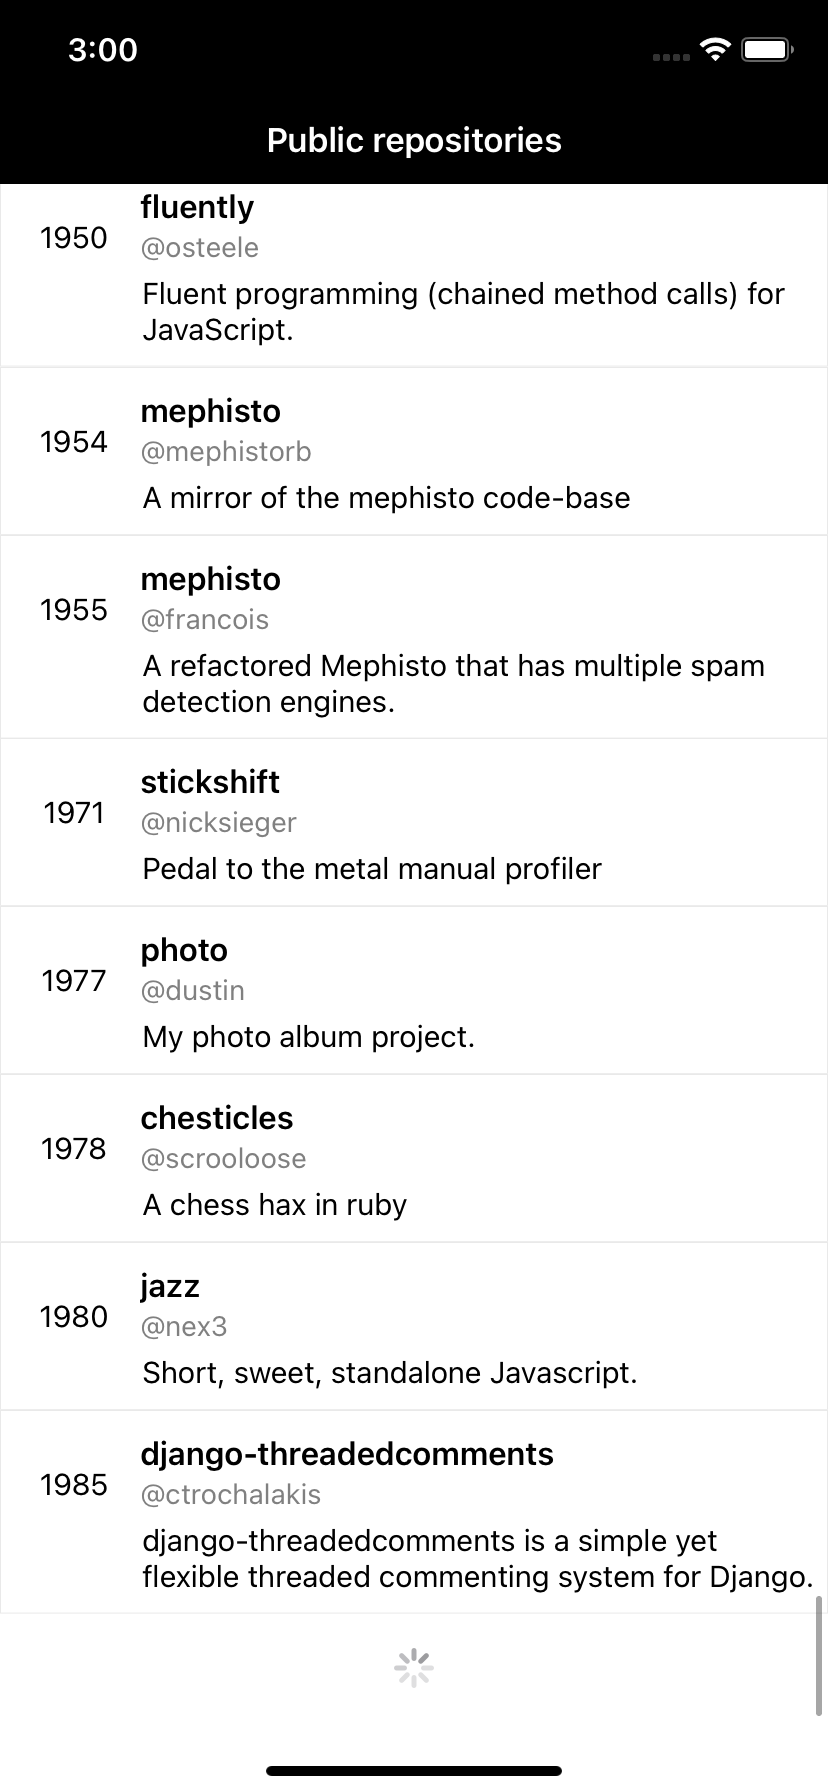
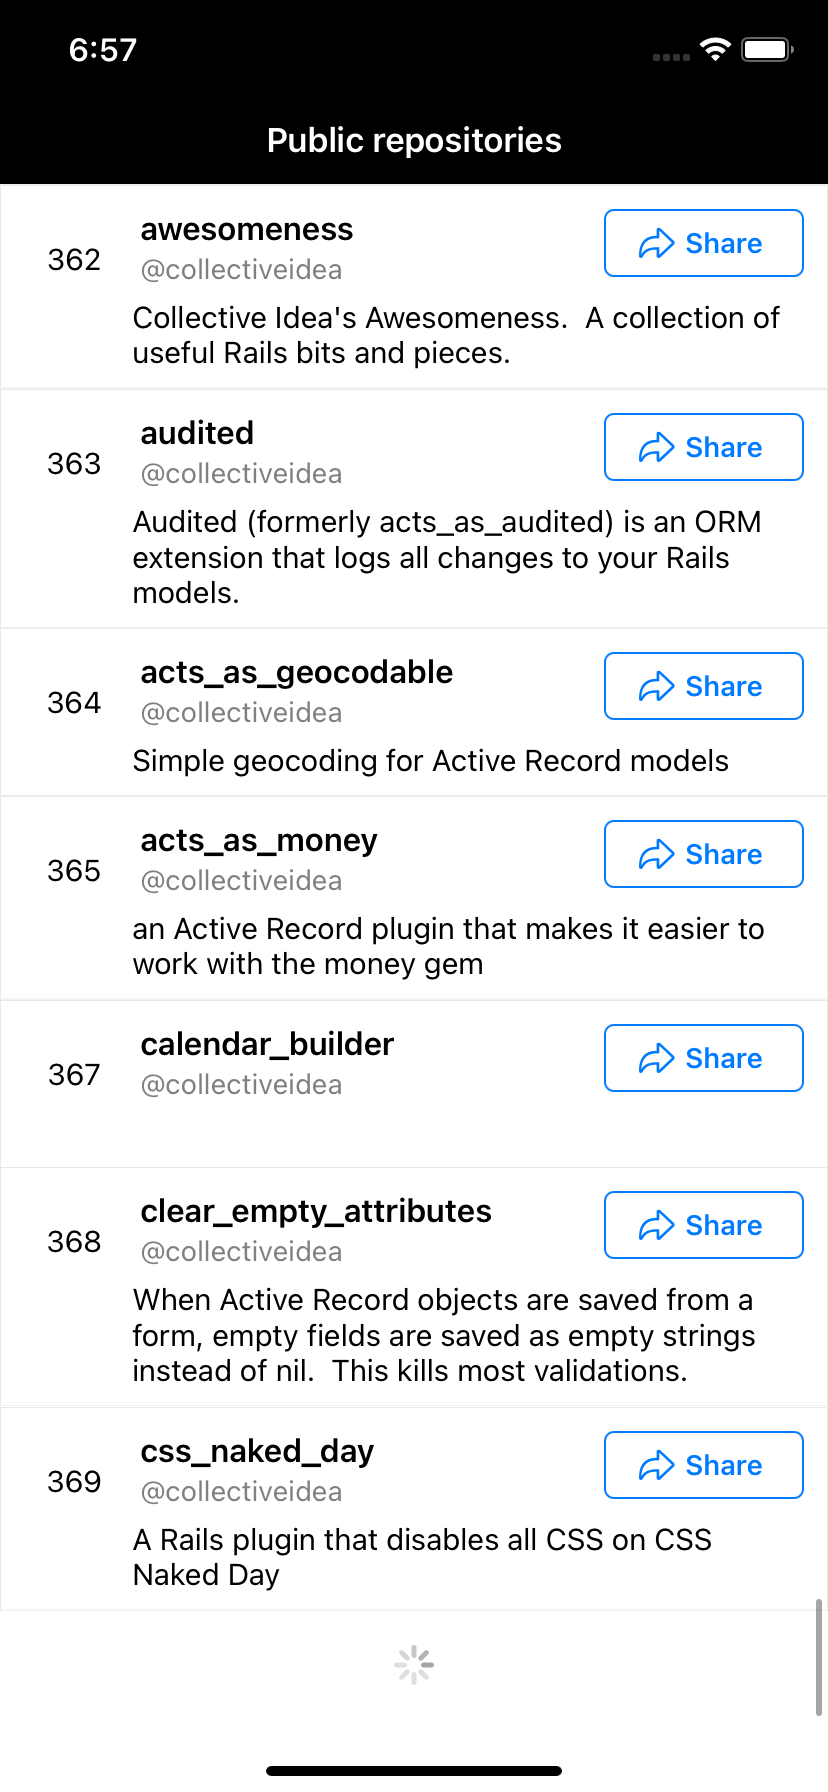
add share button

diff --git a/PublicGithubRepos/Repos/View/ReposCollectionViewCell.swift b/PublicGithubRepos/Repos/View/ReposCollectionViewCell.swift
@@ -34,14 +34,29 @@ class ReposCollectionViewCell: UICollectionViewCell {
         return label
     }()
     
-    private let descriptionTextView: UITextView = {
-        let textView = UITextView()
-        textView.font = UIFont.systemFont(ofSize: 15)
-        textView.isEditable = false
-        textView.isScrollEnabled = false
-        textView.backgroundColor = .clear
-        textView.translatesAutoresizingMaskIntoConstraints = false
-        return textView
+    private let descriptionLabel: UILabel = {
+        let label = UILabel()
+        label.font = UIFont.systemFont(ofSize: 15)
+        label.numberOfLines = 0
+        label.translatesAutoresizingMaskIntoConstraints = false
+        return label
+    }()
+    
+    let shareButton: UIButton = {
+        let button = UIButton()
+        button.layer.cornerRadius = 5
+        button.layer.borderColor = UIColor.link.cgColor
+        button.layer.borderWidth = 1
+        button.setTitle("Share", for: .normal)
+        button.titleLabel?.font = UIFont.boldSystemFont(ofSize: 14)
+        button.setTitleColor(.link, for: .normal)
+        button.setImage(UIImage(systemName: "arrowshape.turn.up.right"), for: .normal)
+        button.imageView?.tintColor = .link
+        // Возможность масштабирования содержимого по размеру представления с сохранением соотношения сторон.
+        button.imageView?.contentMode = .scaleAspectFit
+        button.imageEdgeInsets = UIEdgeInsets(top: 0, left: -8, bottom: 0, right: 0)
+        button.translatesAutoresizingMaskIntoConstraints = false
+        return button
     }()
     
     override init(frame: CGRect) {
@@ -49,7 +64,7 @@ class ReposCollectionViewCell: UICollectionViewCell {
         addSubviews()
         
         layer.borderWidth = 0.5
-        layer.borderColor = #colorLiteral(red: 0.9124323726, green: 0.9125853777, blue: 0.9124122262, alpha: 1)
+        layer.borderColor = Colors.separatorColor.cgColor
     }
     
     required init?(coder: NSCoder) {
@@ -70,7 +85,7 @@ class ReposCollectionViewCell: UICollectionViewCell {
         NSLayoutConstraint.activate([
             nameLabel.topAnchor.constraint(equalTo: idLabel.topAnchor),
             nameLabel.leadingAnchor.constraint(equalTo: idLabel.trailingAnchor, constant: 8),
-            nameLabel.trailingAnchor.constraint(equalTo: trailingAnchor, constant: 12),
+            nameLabel.trailingAnchor.constraint(equalTo: shareButton.leadingAnchor, constant: 0),
             nameLabel.heightAnchor.constraint(equalToConstant: 20)
         ])
         
@@ -82,10 +97,17 @@ class ReposCollectionViewCell: UICollectionViewCell {
         ])
         
         NSLayoutConstraint.activate([
-            descriptionTextView.topAnchor.constraint(equalTo: ownerLoginLabel.bottomAnchor, constant: -4),
-            descriptionTextView.leadingAnchor.constraint(equalTo: ownerLoginLabel.leadingAnchor, constant: -4),
-            descriptionTextView.trailingAnchor.constraint(equalTo: trailingAnchor),
-            descriptionTextView.bottomAnchor.constraint(equalTo: bottomAnchor)
+            descriptionLabel.topAnchor.constraint(equalTo: ownerLoginLabel.bottomAnchor, constant: -4),
+            descriptionLabel.leadingAnchor.constraint(equalTo: ownerLoginLabel.leadingAnchor, constant: -4),
+            descriptionLabel.trailingAnchor.constraint(equalTo: trailingAnchor),
+            descriptionLabel.bottomAnchor.constraint(equalTo: bottomAnchor)
+        ])
+        
+        NSLayoutConstraint.activate([
+            shareButton.topAnchor.constraint(equalTo: topAnchor, constant: 12),
+            shareButton.trailingAnchor.constraint(equalTo: trailingAnchor, constant: -12),
+            shareButton.widthAnchor.constraint(equalToConstant: 100),
+            shareButton.heightAnchor.constraint(equalToConstant: 34)
         ])
     }
 
@@ -93,24 +115,32 @@ class ReposCollectionViewCell: UICollectionViewCell {
     // при этом инициализатор заново не вызывается
     override func prepareForReuse() {
         super.prepareForReuse()
-        // при переиспользовании ячейки каждый раз начинаем с nil
+        // сбрасываем все данные ячейки
         idLabel.text = nil
         nameLabel.text = nil
         ownerLoginLabel.text = nil
-        descriptionTextView.text = nil
+        descriptionLabel.text = nil
     }
     
     private func addSubviews() {
         addSubview(idLabel)
         addSubview(nameLabel)
         addSubview(ownerLoginLabel)
-        addSubview(descriptionTextView)
+        addSubview(descriptionLabel)
+        addSubview(shareButton)
     }
     
     func configure(viewModel: RepoViewModel) {
         idLabel.text = "\(viewModel.id)"
         nameLabel.text = "\(viewModel.name)"
         ownerLoginLabel.text = "@\(viewModel.ownerLogin)"
-        descriptionTextView.text = "\(viewModel.description)"
+        descriptionLabel.text = "\(viewModel.description)"
+    }
+}
+
+extension ReposCollectionViewCell {
+    //------------------ Constants -------------
+    private struct Colors {
+        static let separatorColor = #colorLiteral(red: 0.9124323726, green: 0.9125853777, blue: 0.9124122262, alpha: 1)
     }
 }

diff --git a/PublicGithubRepos/Repos/View/ReposViewController.swift b/PublicGithubRepos/Repos/View/ReposViewController.swift
@@ -75,11 +75,11 @@ class ReposViewController: UIViewController, ReposViewControllerInput, UIGesture
         collectionView.alwaysBounceVertical = true
         collectionView.addSubview(refreshControl)
         // long press on collectionView for sharing
-        let lpgr = UILongPressGestureRecognizer(target: self, action: #selector(handleLongPress))
-        lpgr.minimumPressDuration = 0.5
-        lpgr.delegate = self
-        lpgr.delaysTouchesBegan = true
-        self.collectionView.addGestureRecognizer(lpgr)
+//        let lpgr = UILongPressGestureRecognizer(target: self, action: #selector(handleLongPress))
+//        lpgr.minimumPressDuration = 0.5
+//        lpgr.delegate = self
+//        lpgr.delaysTouchesBegan = true
+//        self.collectionView.addGestureRecognizer(lpgr)
     }
     
     override func loadView() {
@@ -98,29 +98,26 @@ class ReposViewController: UIViewController, ReposViewControllerInput, UIGesture
         presenter.prepareDataByRefresh(id: lastId)
     }
     
-    @objc func handleLongPress(gesture: UILongPressGestureRecognizer) {
-        if gesture.state != .began {
-            return
-        }
-
+    @objc func presentShareSheet(gesture: UITapGestureRecognizer) {
         let point = gesture.location(in: self.collectionView)
         // находим indexPath нажатой ячейки
-        if let indexPath = collectionView.indexPathForItem(at: point) {
-            // получаем ячейку
-            let cell = collectionView.cellForItem(at: indexPath)
-            guard let vm = viewModel[safe: indexPath.row] else { return }
-            let urlString = "https://github.com/\(vm.ownerLogin)/\(vm.name)"
-            // share link of repository by ActivityViewController
-            let activityVC = UIActivityViewController(activityItems: [urlString], applicationActivities: nil)
-            // add iPad support
-            activityVC.popoverPresentationController?.sourceView = cell
-            if let bounds = cell?.bounds {
-                activityVC.popoverPresentationController?.sourceRect = bounds
-            }
-            present(activityVC, animated: true, completion: nil)
-        } else {
+        guard let indexPath = collectionView.indexPathForItem(at: point)
+        else {
             print("Couldn't find index path")
+            return
         }
+        // получаем ячейку
+        let cell = collectionView.cellForItem(at: indexPath)
+        guard let vm = viewModel[safe: indexPath.row] else { return }
+        let urlString = "https://github.com/\(vm.ownerLogin)/\(vm.name)"
+        // share link of repository by ActivityViewController
+        let activityVC = UIActivityViewController(activityItems: [urlString], applicationActivities: nil)
+        // add iPad support
+        activityVC.popoverPresentationController?.sourceView = cell
+        if let bounds = cell?.bounds {
+            activityVC.popoverPresentationController?.sourceRect = bounds
+        }
+        present(activityVC, animated: true, completion: nil)
     }
 }
 
@@ -146,7 +143,10 @@ extension ReposViewController: UICollectionViewDataSource {
         guard let cell = collectionView.dequeueReusableCell(withReuseIdentifier: ReposCollectionViewCell.identifier, for: indexPath) as? ReposCollectionViewCell,
               let repo = viewModel[safe: indexPath.row]
         else { return UICollectionViewCell() }
+        
         cell.configure(viewModel: repo)
+        cell.shareButton.addGestureRecognizer(UITapGestureRecognizer(target: self, action: #selector(presentShareSheet)))
+        
         return cell
     }
 }
